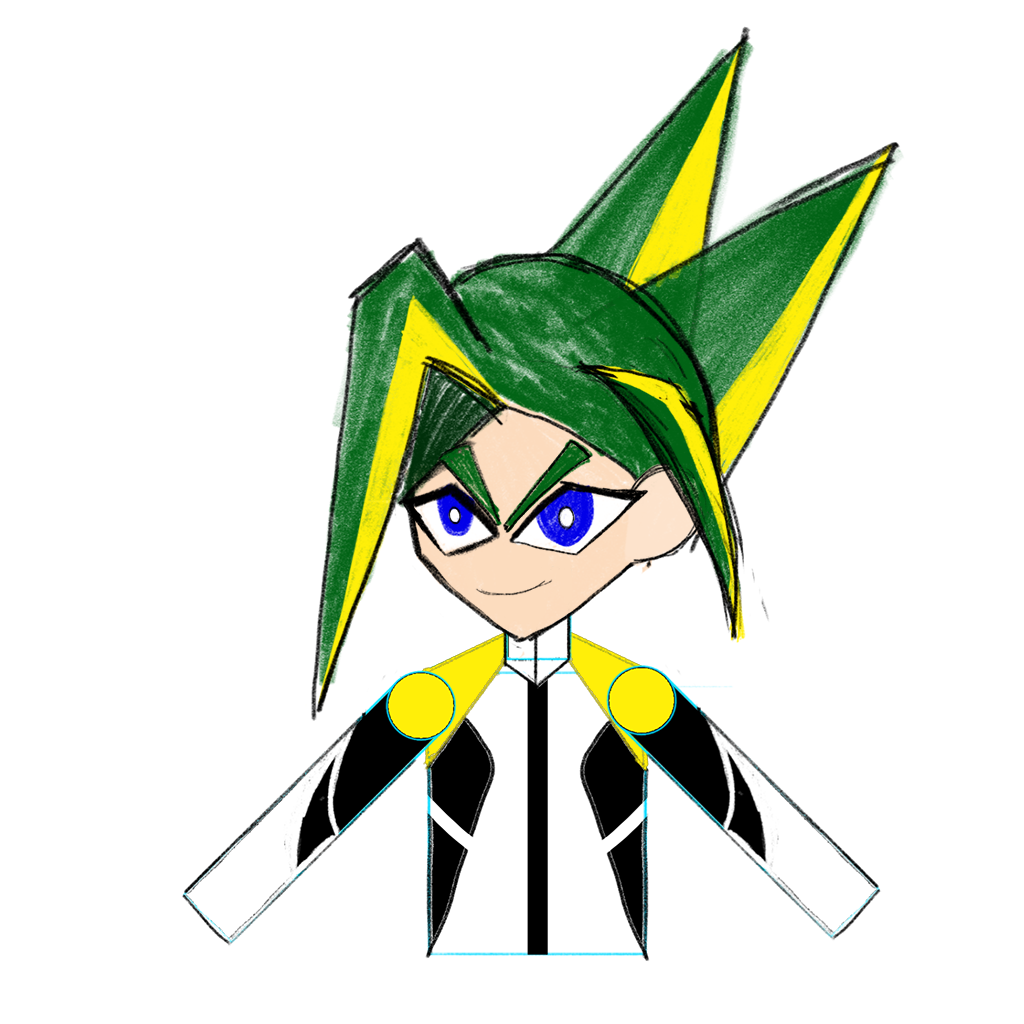
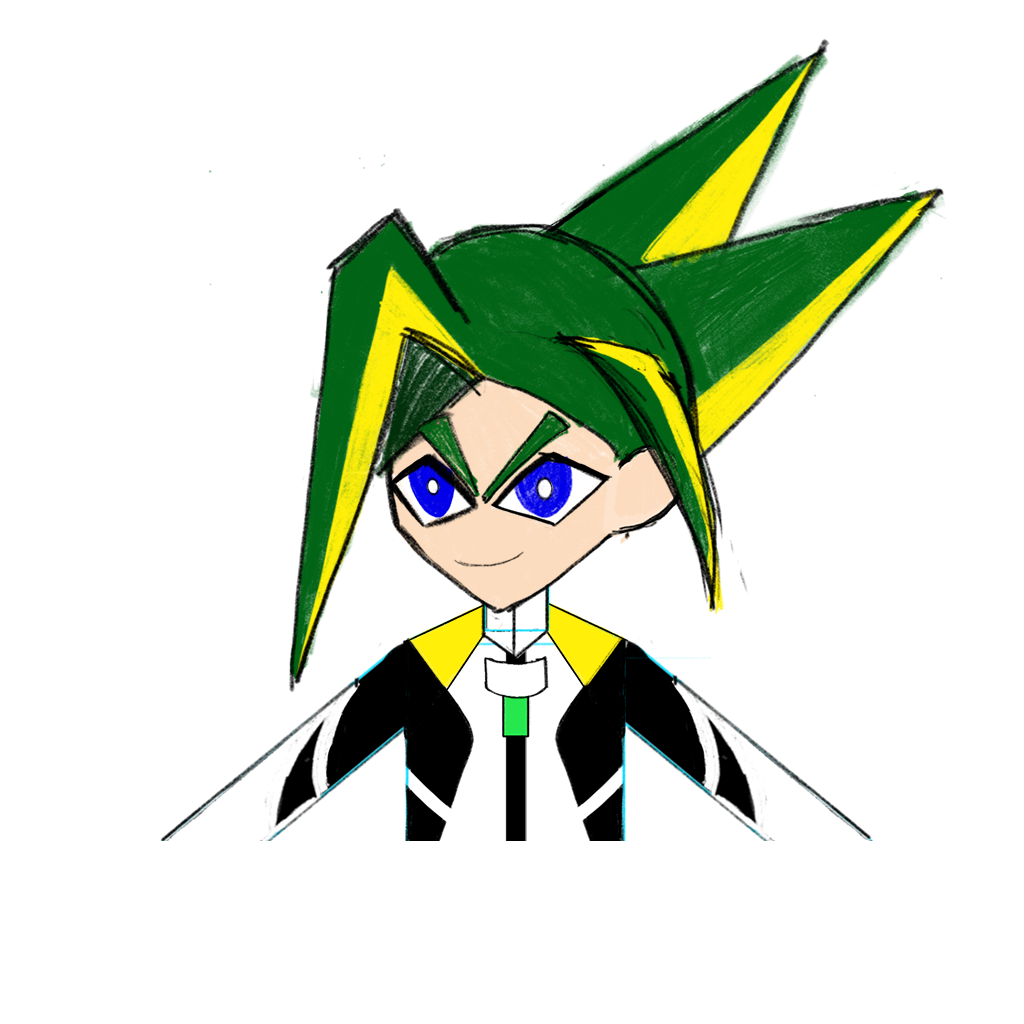
ユウヤ画像、バストショットcssを調整

diff --git a/src/css/pilot-bust-shot.css b/src/css/pilot-bust-shot.css
@@ -49,8 +49,8 @@
   --height: var(--width);
 
   position: absolute;
-  left: calc(100vw - var(--width) * 0.9 - var(--safe-area-right));
-  top: calc(100 * var(--vh) - var(--height) * 0.9);
+  left: calc(100vw - var(--width) * 0.95 - var(--safe-area-right));
+  top: calc(100 * var(--vh) - var(--height) * 0.82);
   width: var(--width);
   height: var(--height);
 }
